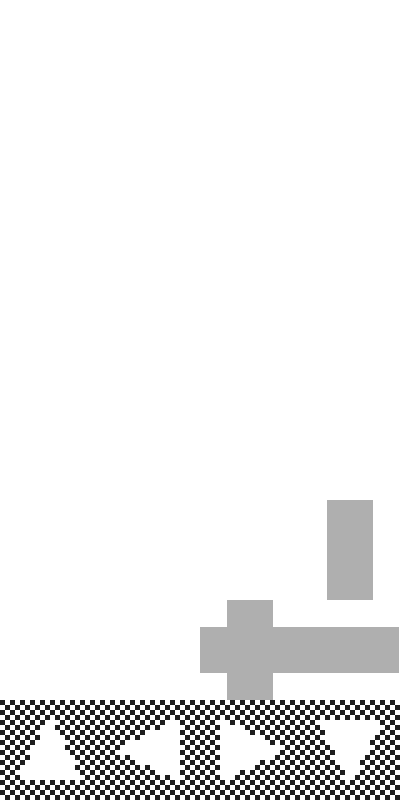
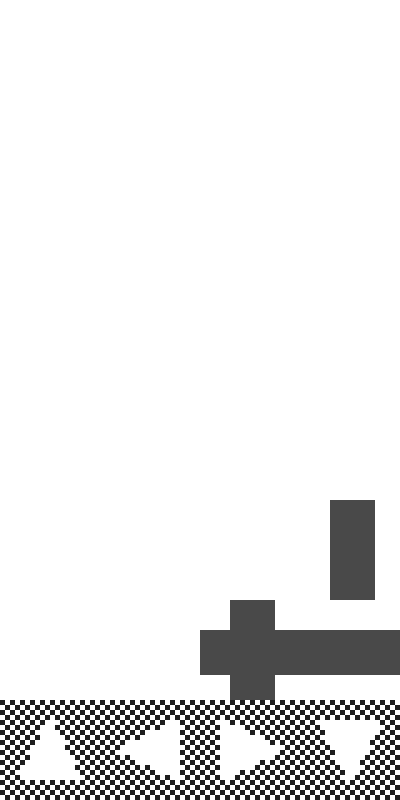
improvements maybe

Changed region(s): [[0.48, 0.75, 1.0, 0.875], [0.81, 0.625, 0.96, 0.75]]

diff --git a/render.py b/render.py
@@ -190,7 +190,10 @@ class Renderer:
                 try:
                     ms = graphics["matsize"]
                     rect = pg.Rect(ms[0] + posx, ms[0] + posy, ms[1], ms[1])
-                    pg.draw.rect(self.surf_tiles, graphics["matposes"][datdata], rect)
+                    col = [graphics["matposes"][datdata][0], graphics["matposes"][datdata][1], graphics["matposes"][datdata][2], 255]
+                    if(layer != selectedLayer):
+                        col[3] = 100
+                    pg.draw.rect(self.surf_tiles, col, rect)
                 except ValueError:
                     self.surf_tiles.blit(notfound, [posx, posy])
 
@@ -239,9 +242,10 @@ class Renderer:
         images[1] = renderedimage.convert_alpha(idk)
         images[2] = renderedimage.convert_alpha(idk)
 
-        images[0].fill(black, special_flags=pg.BLEND_RGBA_MULT)
-        images[1].fill(green, special_flags=pg.BLEND_RGBA_MULT)
-        images[2].fill(red, special_flags=pg.BLEND_RGBA_MULT)    
+        images[0].fill(settings["GE"]["layerColors"][0], special_flags=pg.BLEND_MULT)
+        images[1].fill(settings["GE"]["layerColors"][1], special_flags=pg.BLEND_MULT)
+        images[2].fill(settings["GE"]["layerColors"][2], special_flags=pg.BLEND_MULT)
+
         for xp, x in enumerate(area):
             for yp, y in enumerate(x):
                 if y:
@@ -278,8 +282,17 @@ class Renderer:
                 return 0
         cellsize2 = [image1size, image1size]
         pixel = pg.Surface(cellsize2)
-        pixel.fill(color2)
-        for i in range(2, -1, -1):
+        pixel.fill(color)
+
+        stackables = pg.Surface(cellsize2)
+        stackables.set_colorkey([0, 0, 0, 0])
+        #stackables.fill([0, 0, 0, 0])
+        
+        geoRange = range(2, -1, -1)
+        if self.commsgeocolors:
+            geoRange = range(0, 3, 1)
+        
+        for i in geoRange:
             if not self.geolayers[i]:
                 continue
             
@@ -292,17 +305,21 @@ class Renderer:
 
             if i == layer and not self.commsgeocolors:
                 convrender.set_alpha(settings["global"]["primarylayeralpha"])
+            if i == 0 and self.commsgeocolors:
+                convrender.set_alpha(255)
 
             self.data["GE"][xp][yp][i][1] = list(set(self.data["GE"][xp][yp][i][1]))
             cell = self.data["GE"][xp][yp][i][0]
+
             over: list = self.data["GE"][xp][yp][i][1]
             if cell == 7 and 4 not in over:
                 self.data["GE"][xp][yp][i][0] = 0
                 cell = self.data["GE"][xp][yp][i][0]
             curtool = [graphics["shows"][str(cell)][0] * image1size,
                        graphics["shows"][str(cell)][1] * image1size]
-
-            pixel.blit(convrender, [0, 0], [curtool, cellsize2])
+            
+            if(cell not in [0, 7]):
+                pixel.blit(convrender, [0, 0], [curtool, cellsize2])
 
             if 4 in over and self.data["GE"][xp][yp][i][0] != 7:
                 self.data["GE"][xp][yp][i][1].remove(4)
@@ -358,7 +375,7 @@ class Renderer:
                                 tilecounter += 1
                             if curtile in [0, 6] and tile in col4:  # if we found air in 4 places near
                                 foundair = True
-                                if 5 in incorner(xp - tile[0], yp - tile[1]):  # if opposite of air is wire
+                                if any(x in [5, 6, 7, 21, 19] for x in incorner(xp - tile[0], yp - tile[1])) :  # if opposite of air is wire
                                     foundwire = True
                                     match tile:
                                         case [0, 1]:  # N
@@ -371,17 +388,22 @@ class Renderer:
                                             pos = graphics["shortcutentrancetexture"]["W"]
                                 else:
                                     break
-                            if 5 in curhover and tile in col4:  # if wire in 4 places near
+                            if any(x in [5, 6, 7, 21, 19] for x in curhover) and tile in col4:  # if wire in 4 places near
                                 pathcount += 1
                                 if pathcount > 1:
                                     break
                         else:  # if no breaks
                             if tilecounter == 7 and foundwire and foundair and pos != -1:  # if we found the right one
                                 curtool = [pos[0] * image1size, pos[1] * image1size]
-                s = renderedimage
                 if adds in [1, 2]:
-                    s = convrender
-                pixel.blit(s, [0, 0], [curtool, cellsize2])
+                    pixel.blit(convrender, [0, 0], [curtool, cellsize2])
+                else:
+                    isuckatcoding = renderedimage.convert_alpha(stackables)
+                    if i != 0:
+                        isuckatcoding.fill(red, special_flags=pg.BLEND_MULT)
+                        
+                    stackables.blit(isuckatcoding, [0, 0], [curtool, cellsize2])
+        pixel.blit(stackables, [0, 0])
         return pixel
 
     def findprop(self, name, cat=None):

diff --git a/menuclass.py b/menuclass.py
@@ -649,13 +649,13 @@ class MenuWithField(Menu):
             widgets.fastmts(self.surface,
                             f"Effect({self.draweffects}): {self.data['FE']['effects'][self.draweffects - 1]['nm']}",
                             *self.field.rect.midleft, white)
-        mpos = pg.mouse.get_pos()
-        if self.drawgrid and self.field.rect.collidepoint(mpos):
-            pos2 = self.pos2
-            pg.draw.line(self.surface, cursor2, [self.field.rect.left, pos2[1]],
-                         [self.field.rect.right, pos2[1]])
-            pg.draw.line(self.surface, cursor2, [pos2[0], self.field.rect.top],
-                         [pos2[0], self.field.rect.bottom])
+        #mpos = pg.mouse.get_pos()
+        #if self.drawgrid and self.field.rect.collidepoint(mpos):
+            #pos2 = self.pos2
+            #pg.draw.line(self.surface, cursor2, [self.field.rect.left, pos2[1]],
+                         #[self.field.rect.right, pos2[1]])
+            #pg.draw.line(self.surface, cursor2, [pos2[0], self.field.rect.top],
+                         #[pos2[0], self.field.rect.bottom])
 
         super().blit()
 
@@ -891,10 +891,22 @@ class MenuWithField(Menu):
 
     def rendergrid(self):
         w, h = self.f.get_size()
+        gridsurf = pg.Surface([w, h]).convert_alpha(self.f)
+        gridsurf.fill([0, 0, 0, 0])
+        col = [255, 255, 255]
+        col2 = [180, 180, 180]
         for x in range(0, w, image1size):
-            pg.draw.line(self.f, grid, [x, 0], [x, h])
+            if x % 40 == 0:
+                pg.draw.line(gridsurf, col, [x, 0], [x, h])
+            else:
+                pg.draw.line(gridsurf, col2, [x, 0], [x, h])
         for y in range(0, h, image1size):
-            pg.draw.line(self.f, grid, [0, y], [w, y])
+            if y % 40 == 0:
+                pg.draw.line(gridsurf, col, [0, y], [w, y])
+            else:
+                pg.draw.line(gridsurf, col2, [0, y], [w, y])
+        gridsurf.set_alpha(30)
+        self.f.blit(gridsurf, [0, 0])
 
     def findprop(self, name, cat=None):
         if cat is not None:

diff --git a/GE.py b/GE.py
@@ -29,6 +29,7 @@ class GE(MenuWithField):
         renderer.geo_full_render(renderer.lastlayer)
 
         super().__init__(surface, "GE", renderer)
+        self.drawgrid = True
         self.emptyarea()
         self.air()
         self.rs()
@@ -112,7 +113,7 @@ class GE(MenuWithField):
             toolsized = pg.transform.scale(self.toolrender,
                                            pg.Vector2(self.toolrender.get_size()) / image1size * self.size).convert_alpha(self.surface)
             toolsized.fill(red, special_flags=pg.BLEND_RGBA_MULT)
-            self.labels[1].set_text(f"X: {posoffset.x}, Y: {posoffset.y}, Z: {self.layer + 1}")
+            self.labels[1].set_text(f"X: {int(posoffset.x)}, Y: {int(posoffset.y)}, Work Layer: {self.layer + 1}")
             #print(self.placetile)
             if self.selectedtool in self.settings["codes"].keys():
                 if type(self.placetile) == int:
@@ -186,8 +187,19 @@ class GE(MenuWithField):
                 self.emptyarea()
             elif bp[2] == 1 and not self.mousp2 and (self.mousp and self.mousp1):
                 self.rectdata[1] = posoffset - self.rectdata[0]
-                # print(self.rectdata[2], pos2 - self.rectdata[2])
-                rect = self.vec2rect(self.rectdata[2], pos2)
+                
+                rectoffset = [10, 10]
+                righthalf = mpos.x > self.rectdata[2].x + 10
+                upperhalf = mpos.y > self.rectdata[2].y + 10
+
+                if righthalf: 
+                    rectoffset[0] = -10
+                if upperhalf:
+                    rectoffset[1] = -10
+
+                print()
+                rect = self.vec2rect(self.rectdata[2] + rectoffset + [10, 10], pos2 - rectoffset + [10, 10])
+
                 tx = f"{abs(int(rect.w / self.size))}, {abs(int(rect.h / self.size))}"
                 widgets.fastmts(self.surface, tx, *mpos, white)
                 if self.fillshape2 in ["rect", "rect-hollow"] or self.selectedtool in ["CP", "CT", "SL"]:

diff --git a/TE.py b/TE.py
@@ -103,7 +103,7 @@ class TE(MenuWithField):
                     self.cols = self.test_cols(cposxo, cposyo)
                     self.mpos = posoffset
                     self.lastfg = fg
-                    self.labels[1].set_text(f"X: {posoffset.x}, Y: {posoffset.y}, Z: {self.layer + 1}")
+                    self.labels[1].set_text(f"X: {int(posoffset.x)}, Y: {int(posoffset.y)}, Work Layer: {self.layer + 1}")
                     if self.canplaceit(posoffset.x, posoffset.y, posoffset.x, posoffset.y):
                         self.labels[0].set_text(
                             "Tile: " + str(self.data["TE"]["tlMatrix"][int(posoffset.x)][int(posoffset.y)][self.layer]))
@@ -485,7 +485,7 @@ class TE(MenuWithField):
                 if xpos >= self.levelwidth or ypos >= self.levelheight or xpos < 0 or ypos < 0:
                     continue
                 if csp != -1:
-                    if self.data["TE"]["tlMatrix"][xpos][ypos][self.layer]["tp"] != "default":
+                    if self.data["TE"]["tlMatrix"][xpos][ypos][self.layer]["tp"] not in ["default", "material"]:
                         return False
                     if self.data["GE"][xpos][ypos][self.layer][0] != csp and not force_geo:
                         return False
@@ -493,7 +493,7 @@ class TE(MenuWithField):
                     if self.layer + 1 <= 2:
                         csp2 = sp2[x2 * h + y2]
                         if csp2 != -1:
-                            if self.data["TE"]["tlMatrix"][xpos][ypos][self.layer + 1]["tp"] != "default":
+                            if self.data["TE"]["tlMatrix"][xpos][ypos][self.layer + 1]["tp"] not in ["default", "material"]:
                                 return False
                             if self.data["GE"][xpos][ypos][self.layer + 1][0] != csp2 and not force_geo:
                                 return False
